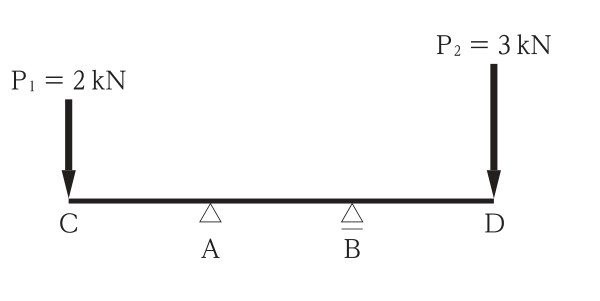
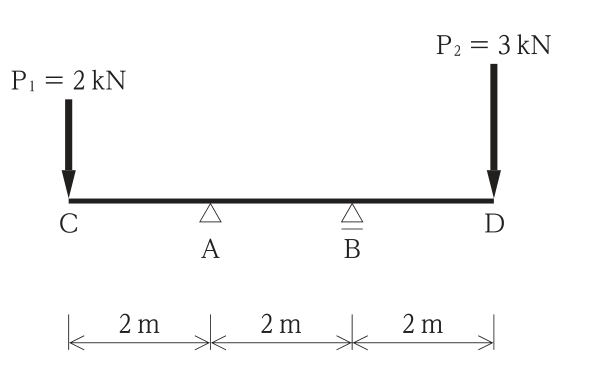
fix: correct building exam diagrams and explanations after review

diff --git a/reports/cloud-sekou-1kenchiku-latest2.md b/reports/cloud-sekou-1kenchiku-latest2.md
@@ -4,7 +4,7 @@
 
 ## 今回の結果
 
-**令和8年度72問・令和7年度72問、計144原問を未公開（ステージング）で収録。除外0問、596肢の独自解説、必要図9問分を追加した。監督役による独立レビューは未実施。公開判定は変更していない。**
+**令和8年度72問・令和7年度72問、計144原問を未公開（ステージング）で収録。除外0問、596肢の独自解説、必要図9問分を追加した。監督役による初回独立レビューはFAIL（修正必須3件）で、今回3件を修正した。監督役による再レビューは未実施。公開判定は変更していない。**
 
 この報告は、転載禁止を理由に0問で停止した旧監査と、その後の403による取得保留の報告を置き換える。最新のユーザー指示によりオーナー権利確認済みとして収録を進めた。今回提供された公式PDFは取得済みであり、403は現在の保留理由ではない。取得拒否・ログイン・CAPTCHAの迂回は行っていない。
 
@@ -57,16 +57,46 @@ originの `claude/*`・`qual/*`・`codex/*` を取得し、388ブランチ、220
 
 公式ページ末尾の転載禁止表示「本サイトに掲載されている記事・写真・図表などの転載を禁じます。」を確認した。依頼中のオーナー決定（権利確認済み）に従い記録にとどめ、停止・除外理由にはしていない。ライセンス識別子 `FCIP-owner-authorized` はこの依頼におけるオーナー確認を表し、一般向けの自由転載許諾を主張するものではない。
 
-## 検証・レビュー
+## 独立レビュー指摘への修正
 
-- `pnpm install`：終了コード0。読取り専用の共有ストアで他OS向けoptionalパッケージ取得の警告が出たが、検証に必要な依存は利用可能。
-- `pnpm validate:questions`：全26,588問、ok=26,588、fail=0。既存データにwarn=16,808あり。今回の追加144問はエラー・警告とも0。
-- `pnpm validate:questions --exam=sekou-1kenchiku`：144問、ok=144、fail=0、warn=0。
-- `NODE_OPTIONS=--max-old-space-size=8192 pnpm typecheck`：成功。
-- 関連テスト7ファイルのうち既存6ファイル1,184テストは成功。追加6テストの初回検証で解説1肢の短さを検出し、建築基準法の根拠を補足して修正。追加テストの再実行は6/6成功。さらに力学図の支点条件を最終照合し、令和7年度No.11の反力の解説を補正した後も6/6成功。合計1,190テストが修正後の対象範囲で成功。新規テストは `__tests__/questions/sekou-1kenchiku-latest2.test.ts`。既存の関連テストは `accepted-answers`、`exam-config-integrity`、`get-questions`、`qualification-expansion`、`question-url`、`exam-meta-description`。
-- `git diff --check`：既存CRLFファイルを考慮した `-c core.whitespace=cr-at-eol` で成功。
+監督役から提供された初回独立レビュー（対象 `git diff origin/main...HEAD`、作者側HEAD `6bd8d8a1`）はFAIL。次の3件を修正した。
+
+| 指摘 | 修正内容・照合根拠 |
+| --- | --- |
+| P1 令和8年度No.12の寸法欠落 | 公式PDF9頁の構造図の切出し下端を295から325 ptへ拡大し、CA・AB・BD各「2 m」の寸法線・数値を画像内に収めた。原本と画像を目視照合し、図版台帳の座標・SHA256も更新。 |
+| P2 令和8年度No.37肢4の上塗り幅 | 肢別解説と総合解説を、中塗り幅400～500 mm程度・上塗り幅500～600 mm程度へ修正。[石膏ボード工業会・施工マニュアル](https://www.gypsumboard-a.or.jp/pdf/Construct_Manual.pdf#page=23)のPDF23頁（冊子22頁）図3.8をレンダリングして両工法の幅を確認。 |
+| P2 令和7年度No.5肢1の曲げモーメント図 | 「荷重点で不連続」という説明を削除。公式PDF5頁の図1・図3を照合し、荷重点より上ではせん断力が零で曲げモーメントが一定となるべきなのに、図1ではその区間も直線的に変化していることが誤りと説明。 |
+
+問題文・選択肢・採点キーは今回変更していない。今回の追加収録は0問で、資格全体の収録数は令和8年度72問＋令和7年度72問＝144問、全596肢、必要図9問・11画像、除外0問を維持する。
+
+初回独立レビューでは両原本のSHA256、全144問の本文・選択肢・正答、全596肢解説、問題数、出典、未公開ゲートの照合が行われ、上記3件が指摘された。令和7年度No.57の「3または4」も確認されている。レビュアー環境の一時ディレクトリ制約によりテストは開始前に停止したため、修正後のテストは下記のとおり作者側で改めて実行し成功した。
+
+## 修正後の検証・レビュー
+
+すべて修正後に再実行した。
+
+- `pnpm install`：共有ストアへの他OS向けoptionalパッケージ書込みが `ERR_PNPM_EROFS` で再試行を続けたため中断。`pnpm install --offline` に切り替え、終了コード0（Prisma生成を含む）で成功。ロックファイル変更なし。
+- `pnpm validate:questions`：26,588問、ok=26,588、fail=0、warn=16,808（既存データ）。終了コード0。
+- `pnpm validate:questions --exam=sekou-1kenchiku`：144問、ok=144、fail=0、warn=0。終了コード0。
+- `NODE_OPTIONS=--max-old-space-size=8192 pnpm typecheck`：終了コード0。
+- 関連テスト：以下のコマンドで **7ファイル・1,190テストすべて成功**（終了コード0）。全144問の公式正答、訂正正答の採点、全肢解説、図のSHA256、未公開ゲート、ルート情報を含む。
+
+```sh
+pnpm exec vitest run \
+  __tests__/questions/sekou-1kenchiku-latest2.test.ts \
+  __tests__/lib/accepted-answers.test.ts \
+  __tests__/lib/exam-config-integrity.test.ts \
+  __tests__/questions/get-questions.test.ts \
+  __tests__/questions/qualification-expansion.test.ts \
+  __tests__/seo/question-url.test.ts \
+  __tests__/seo/exam-meta-description.test.ts
+```
+
+- 提供MANIFESTと両原本PDFのSHA256を今回も照合し一致。全11画像を台帳の座標・2.5倍レンダリングで原本から再生成した画素列と比較し、全件一致。保存画像のSHA256も全件一致。
+- 修正開始時のJSONと機械比較し、問題文・選択肢・原問番号・正答・出典・画像参照を全144問で維持していることを確認。各年72問・298肢、合計144問・596肢。
+- `git -c core.whitespace=cr-at-eol diff --check`：成功。
 - `pnpm build`、デプロイ、Vercel操作、PR作成、mainへのpushは実行していない。
 
-**独立レビューは最新指示どおり作者から呼ばず、監督役が別プロセスで実施する。未実施のレビューを合格済みとは報告しない。** 監督役は対象PDF、正答転記表、全肢解説、図版台帳、公開ゲートの回帰テストを独立に確認し、指摘修正後に再レビューで合格させる。この確認が残るため、公開前ゲートは維持している。
+独立レビューは最新指示どおり作者から呼ばず、監督役が別プロセスで再実施する。**初回レビューはFAIL、3件修正済み、再レビュー待ち。合格済みとは扱わない。** 公開前ゲートは維持している。
 
-作業環境の `.git` が読み取り専用のため、Gitの取得・コミット・pushには書込み可能な `/tmp/sekou-1kenchiku-git/.git` と本作業ツリーの組合せを使用する。対象は `codex/cloud-sekou-1kenchiku-latest2` のみ。元作業ツリーHEAD `abe234ef` とリモート既存HEAD `f6a7c4e7` は同一内容のツリーであり、後者を親として今回の資格追加を1コミットにまとめる。
+作業環境の `.git` が読み取り専用のため、コミット・pushには既存の書込み可能な `/tmp/sekou-1kenchiku-git/.git` と本作業ツリーの組合せを使用する。対象は `codex/cloud-sekou-1kenchiku-latest2` のみ。修正開始時の作者側HEAD `6bd8d8a1` と同ブランチのリモートHEAD `3a2b57fb` のツリーは同一（`334826de25bbeb0833dfd27f50af7af2f1486dca`）。後者を親に指摘修正をコミットする。
